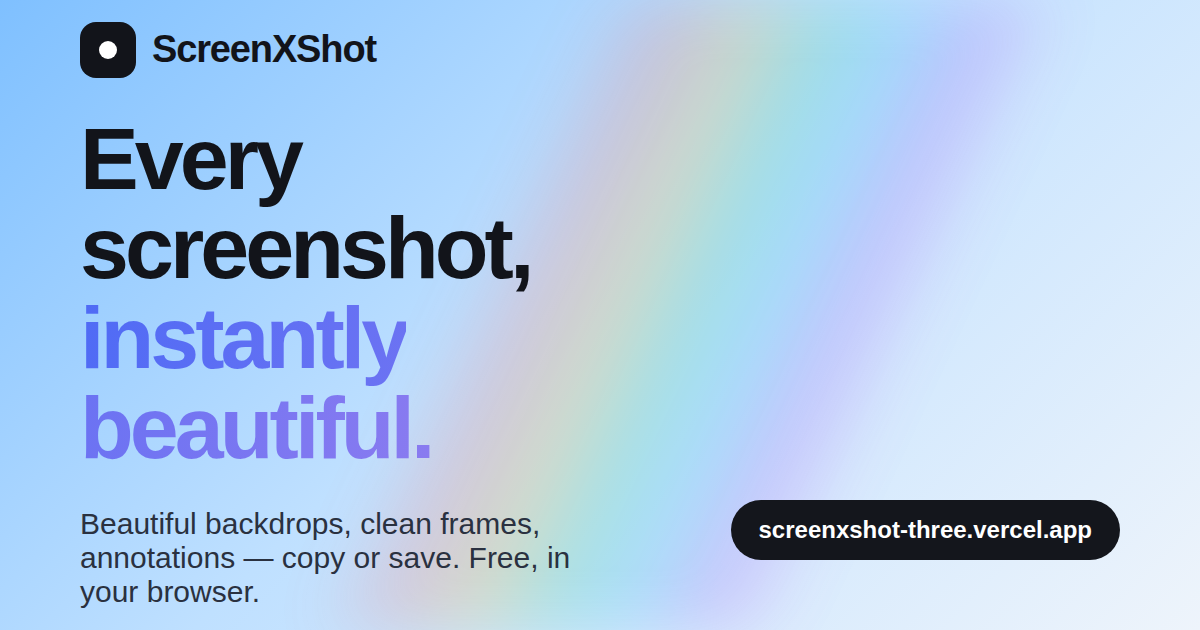
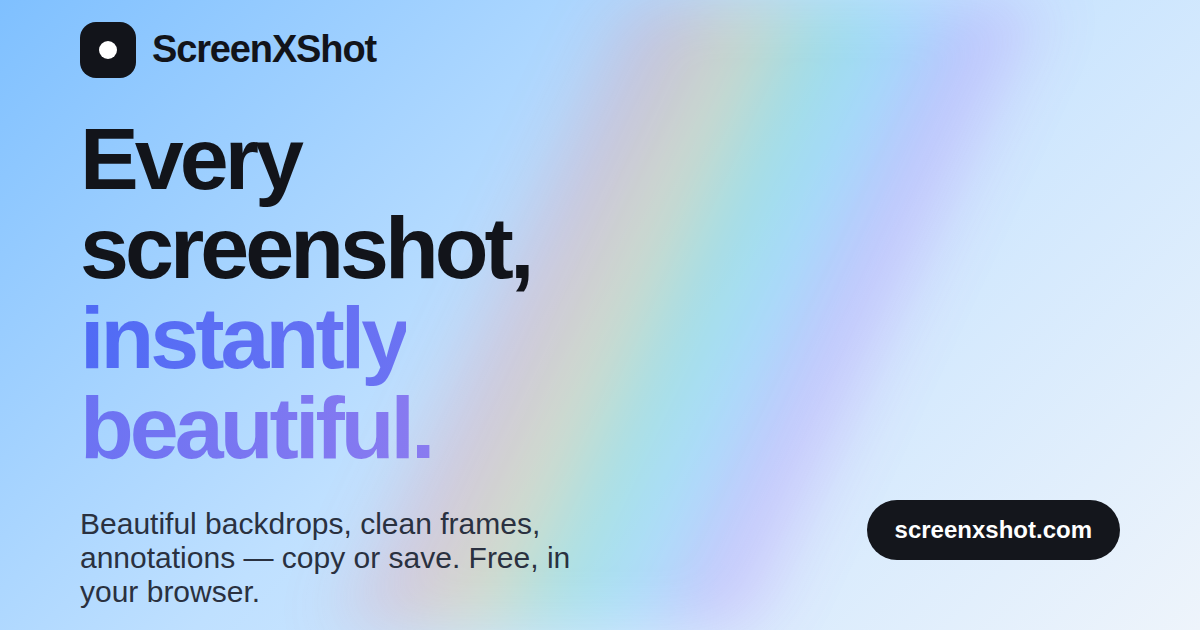
Point site to custom domain screenxshot.com
- Canonical, Open Graph url/image, Twitter image, JSON-LD url -> screenxshot.com
- robots.txt sitemap + sitemap.xml loc -> screenxshot.com
- Titlebar (on-screen + exported) -> screenxshot.com; regenerated og.png
- GOALS.md: live URL + domain tasks updated

Claude-Session: https://claude.ai/code/session_01JBUrDou8n7vYL4swhkqfer

Changed region(s): [[0.5858, 0.7841, 0.925, 0.9048]]

diff --git a/index.html b/index.html
@@ -11,15 +11,15 @@
 <meta name="author" content="ScreenXShot">
 <meta name="robots" content="index, follow, max-image-preview:large">
 <meta name="theme-color" content="#375dfb">
-<link rel="canonical" href="https://screenxshot-three.vercel.app/">
+<link rel="canonical" href="https://screenxshot.com/">
 
 <!-- Open Graph -->
 <meta property="og:type" content="website">
 <meta property="og:site_name" content="ScreenXShot">
 <meta property="og:title" content="ScreenXShot — Every screenshot, instantly beautiful">
 <meta property="og:description" content="Turn raw screenshots into polished, shareable images. Beautiful backdrops, clean frames, annotations — copy or save as PNG. Free, in your browser, nothing uploaded.">
-<meta property="og:url" content="https://screenxshot-three.vercel.app/">
-<meta property="og:image" content="https://screenxshot-three.vercel.app/og.png">
+<meta property="og:url" content="https://screenxshot.com/">
+<meta property="og:image" content="https://screenxshot.com/og.png">
 <meta property="og:image:width" content="1200">
 <meta property="og:image:height" content="630">
 <meta property="og:image:alt" content="ScreenXShot — every screenshot, instantly beautiful">
@@ -28,7 +28,7 @@
 <meta name="twitter:card" content="summary_large_image">
 <meta name="twitter:title" content="ScreenXShot — Every screenshot, instantly beautiful">
 <meta name="twitter:description" content="Turn raw screenshots into polished, shareable images. Free, in your browser, nothing uploaded.">
-<meta name="twitter:image" content="https://screenxshot-three.vercel.app/og.png">
+<meta name="twitter:image" content="https://screenxshot.com/og.png">
 
 <!-- Icons / manifest -->
 <link rel="icon" type="image/svg+xml" href="/favicon.svg">
@@ -41,7 +41,7 @@
   "@context": "https://schema.org",
   "@type": "WebApplication",
   "name": "ScreenXShot",
-  "url": "https://screenxshot-three.vercel.app/",
+  "url": "https://screenxshot.com/",
   "description": "Free, privacy-first screenshot beautifier and annotator. Set screenshots on beautiful backdrops, wrap them in clean frames, mark them up, then copy or save as PNG — all in the browser, nothing uploaded.",
   "applicationCategory": "DesignApplication",
   "operatingSystem": "Any (web browser)",

diff --git a/src/components/Studio.jsx b/src/components/Studio.jsx
@@ -55,7 +55,7 @@ export default function Studio() {
                 <rect x="5" y="11" width="14" height="10" rx="2" />
                 <path d="M8 11V8a4 4 0 018 0v3" />
               </svg>
-              screenxshot.app
+              screenxshot.com
             </span>
             <div className={"stagebtns" + show} id="stagebtns">
               <button className="pill pill-white pill-sm" id="copy" onClick={() => editor.copy()}>

diff --git a/src/editor/engine.js b/src/editor/engine.js
@@ -251,7 +251,7 @@ export class Editor {
       c.strokeStyle = dk ? "rgba(255,255,255,.08)" : "rgba(0,0,0,.07)";
       c.stroke();
       c.font = `${Math.round(ph * 0.44)}px "Manrope",-apple-system,sans-serif`;
-      const label = "screenxshot.app",
+      const label = "screenxshot.com",
         tw = c.measureText(label).width,
         ls = ph * 0.46,
         g2 = ls * 0.5,

diff --git a/GOALS.md b/GOALS.md
@@ -8,7 +8,7 @@ runs locally.
 
 - **Product name:** ScreenXShot
 - **Repo / codename:** screenxshot
-- **Live web app:** https://screenxshot-three.vercel.app
+- **Live web app:** https://screenxshot.com (custom domain)
 
 ---
 
@@ -21,8 +21,8 @@ runs locally.
       `robots.txt`, `sitemap.xml`, generated `og.png`, `<noscript>` fallback.
 
 ## Next up (web)
-- [ ] Buy a custom domain (recommended: `screenxshot.com` — cheapest to keep,
-      best for trust/CTR) and point Vercel at it.
+- [x] Bought custom domain `screenxshot.com` (connect it in Vercel + DNS).
+- [x] Updated canonical URL, OG tags, sitemap, robots, titlebar to screenxshot.com.
 - [ ] After domain switch: update canonical URL, OG tags, and sitemap to the
       new domain.
 - [ ] Submit the site to **Google Search Console** + request indexing.